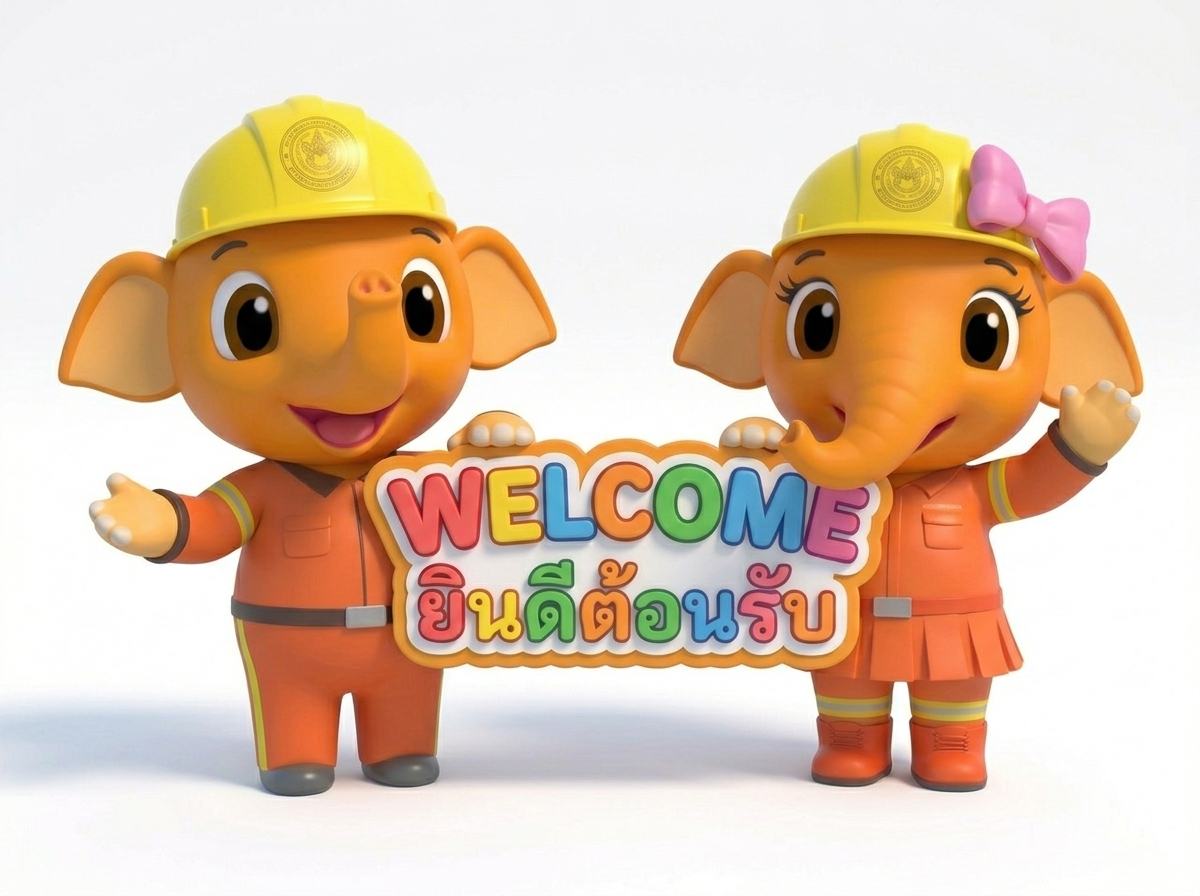
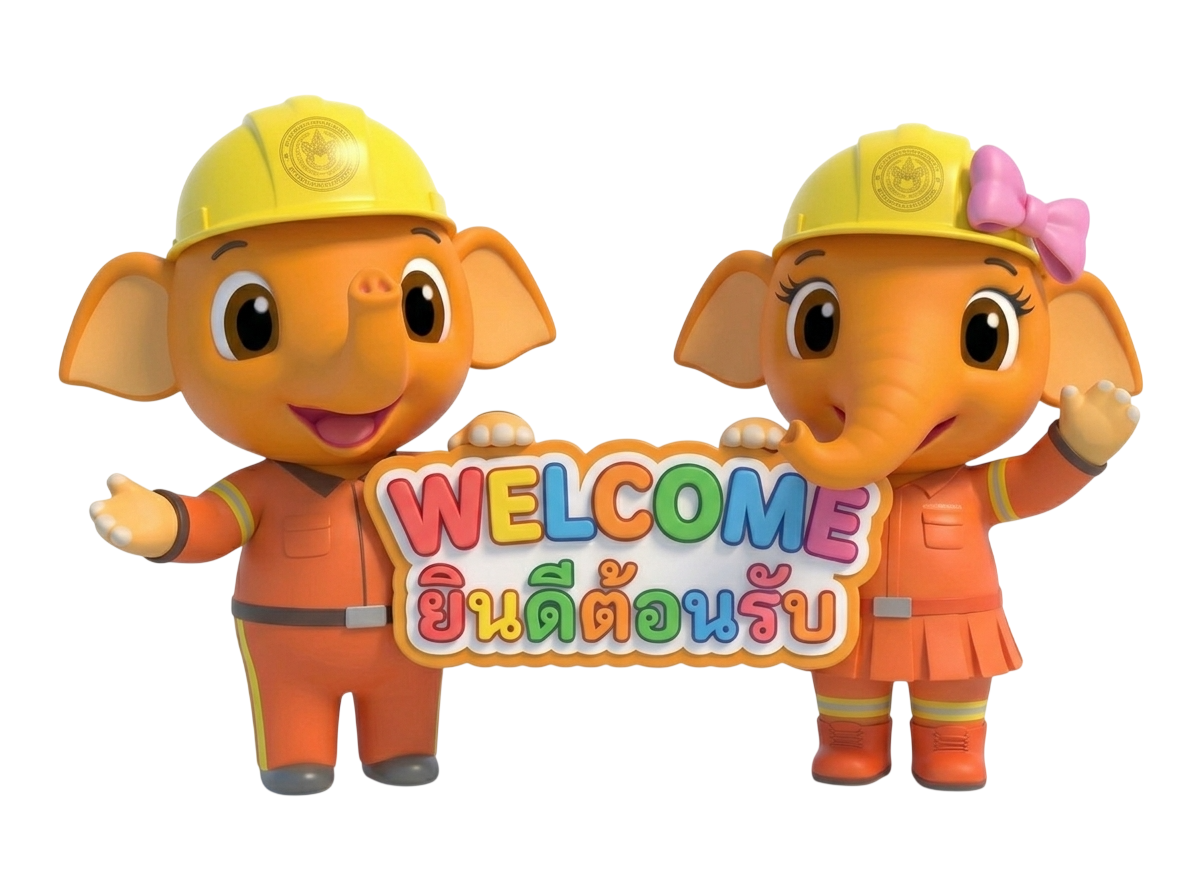
Add files via upload

diff --git a/index.html b/index.html
@@ -49,23 +49,11 @@
     padding: 24px;
     text-align: center;
   }
-  .gate-mascot-frame {
-    background: linear-gradient(180deg, #FFFFFF 0%, var(--sand) 100%);
-    border-radius: 22px;
-    padding: 18px 24px 12px;
-    max-width: 260px;
-    width: 100%;
-    box-shadow:
-      0 22px 48px rgba(0,0,0,0.38),
-      0 0 0 1px rgba(255,201,77,0.28),
-      0 0 32px rgba(255,201,77,0.12);
-  }
   #gate img {
-    display: block;
-    width: 100%;
+    width: 220px;
+    max-width: 80%;
     height: auto;
     object-fit: contain;
-    border-radius: 14px;
   }
   #gate h2 {
     color: var(--white);
@@ -380,9 +368,7 @@
 
   <!-- Light access gate: a friendly front door, not real security. Change GATE_PASSWORD below before publishing. -->
   <div id="gate">
-    <div class="gate-mascot-frame">
-      <img src="assets/gate-welcome.png" alt="มาสคอตน้องช้างทางหลวง ยินดีต้อนรับ">
-    </div>
+    <img src="assets/gate-welcome.png" alt="มาสคอตน้องช้างทางหลวง ยินดีต้อนรับ">
     <h2>ระบบศูนย์รวมช่องทางปฏิบัติงานดิจิทัล</h2>
     <div class="gate-input-wrap">
       <input type="password" id="gate-input" placeholder="ใส่รหัสผ่านเพื่อเข้าใช้งาน" autocomplete="off" autocapitalize="off" spellcheck="false">
